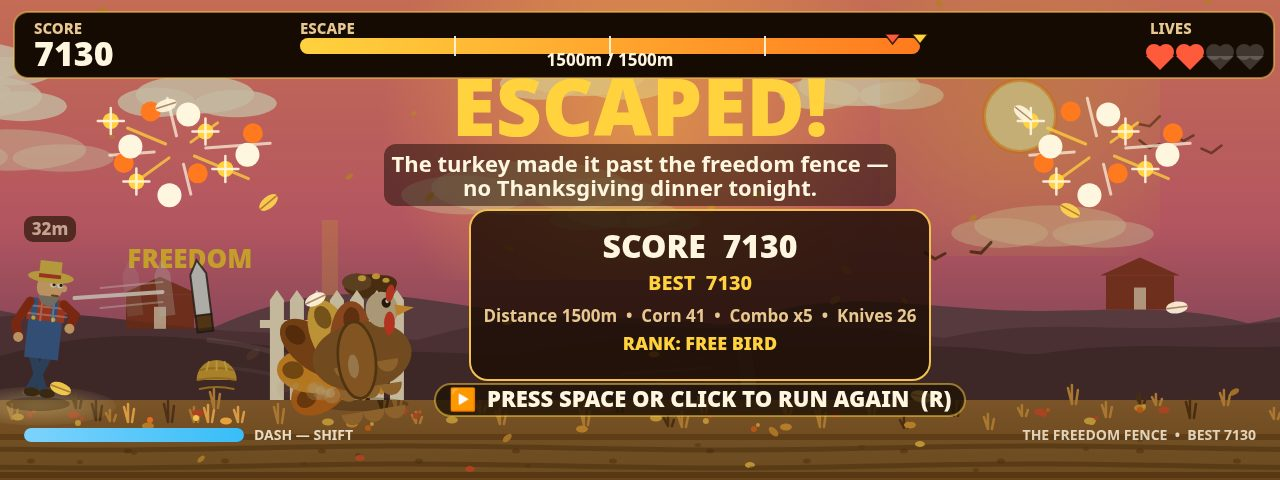
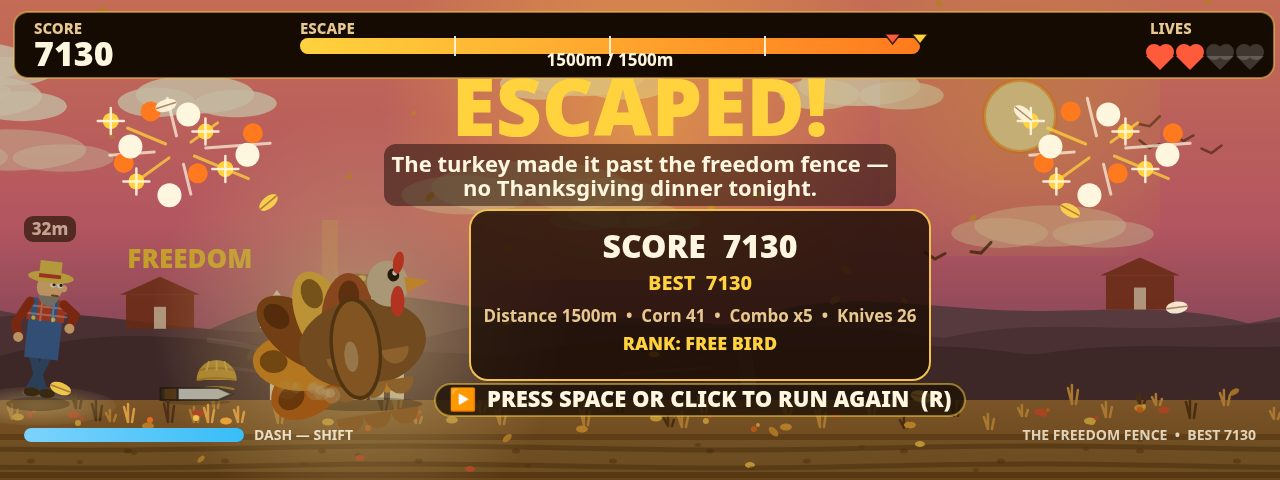
Finals round 1 (end turkey): hero the end-frame turkey — 1.8x in front of the fence, warm halo off the hill, spent knife lies flat, stray feather off its back
- Turkey 1.4x -> 1.8x on the escape screen, still pivoting on its feet in front of the freedom fence: head top ~y257 (46px clear of the subtitle pill), tail top ~y253 (47px), beak ~x427 (43px clear of the score panel), tail clear of FREEDOM.
- Warm halo behind the hero (same recipe as the round-13 title halo, r 210 at (361,320)): the dark-brown bird lifts off the dark-purple hill; FREEDOM wash ~0.1, farmer and panels untouched.
- The spinning knife that froze vertical at 262.8 deg with its tip cutting FREEDOM's D (seed 159, sx 201, cy 292) now lies dropped flat on the dirt at the same x — blade right, handle left, no spin/trail/ghosts — and the second visible knife by the farmer is the same blade. Knives at/ right of the panel keep flying.
- Drifting feathers skip the hero's box (x 240..460, y 225..410): seed 159's white i=3 feather at (315,300), which sat on the turkey's shoulder, is gone; the other seven still fall.

Changed region(s): [[0.0625, 0.4062, 0.375, 0.9375]]

diff --git a/game/src/render.js b/game/src/render.js
@@ -780,6 +780,40 @@ export function createRenderer(canvas) {
     context.globalAlpha = 1;
   }
 
+  // A carving knife lying dropped flat on the dirt — the escape
+  // screen's spent blade (see the KIND_KNIFE branch in drawField).
+  // Same plan as the flying knife, minus everything that reads as
+  // motion: no spin, no trail, no ghosts. Blade points right, the
+  // way it was flying; handle on the left. Its bottom edge sits on
+  // the ground line (y=400) with a small contact shadow under it,
+  // so it reads as resting on the dirt, not floating above it. The
+  // span (sx-40..sx+32) keeps it clear of the farmer (right edge
+  // ~x85), the verge tufts (tops y~404..410, below the blade) and
+  // the enlarged hero turkey's tail (left edge ~x253 at 1.8x).
+  function drawDroppedKnife(sx) {
+    const cy = FIELD.groundY - 6;
+    ellipse(sx - 4, FIELD.groundY + 2, 34, 3, 'rgba(20,10,2,0.25)');
+    context.fillStyle = PALETTE.knifeBlade;
+    context.beginPath();
+    context.moveTo(sx - 23, cy - 6);
+    context.lineTo(sx + 18, cy - 6);
+    context.lineTo(sx + 32, cy);
+    context.lineTo(sx + 18, cy + 6);
+    context.lineTo(sx - 23, cy + 6);
+    context.closePath();
+    context.fill();
+    context.strokeStyle = 'rgba(20,20,30,0.8)';
+    context.lineWidth = 2;
+    context.stroke();
+    context.fillStyle = PALETTE.knifeHandle;
+    context.fillRect(sx - 40, cy - 6, 17, 12);
+    context.fillStyle = 'rgba(20,20,30,0.5)';
+    context.fillRect(sx - 40, cy - 6, 4, 12);
+    context.strokeStyle = 'rgba(20,20,30,0.8)';
+    context.lineWidth = 2;
+    context.strokeRect(sx - 40, cy - 6, 17, 12);
+  }
+
   // ---- the turkey ----
   // Four poses that read at a glance: a pumping run, a stretched jump
   // with wings thrown wide, a low slide, and a dazed hurt wobble. The
@@ -1721,9 +1755,19 @@ export function createRenderer(canvas) {
       // subtitle or the re-run prompt. The centre column stays clear.
       // And they start below y=90, so none ever sits on the HUD bar
       // — one used to drift across the ESCAPE label in the end frame.
+      // They also stay off the hero turkey now: the bird owns the
+      // left-centre at 1.8x (head top ~y257, tail-fan top ~y253,
+      // beak ~x427, feet on y=400), and a feather drifting onto it reads
+      // as a stray white fleck on its back, not as celebration —
+      // seed 159's white i=3 feather sat at (315,300), right on the
+      // turkey's shoulder. Any feather whose centre would land in
+      // the bird's box (x 240..460, y 225..410) is skipped; the
+      // other seven still fall. The gold i=2 feather at (268,202)
+      // stays: it flies in open sky above the tail fan.
       for (let i = 0; i < 8; i += 1) {
         const fx = (i < 4 ? 80 + i * 85 : 920 + (i - 4) * 85) + Math.sin(state.elapsed * 0.9 + i * 2.1) * 22;
         const fy = 90 + ((state.elapsed * 26 + i * 97) % 380);
+        if (fx > 240 && fx < 460 && fy > 225 && fy < 410) continue;
         context.save();
         context.translate(fx, fy);
         context.rotate(Math.sin(state.elapsed + i) * 0.7);
@@ -1817,14 +1861,25 @@ export function createRenderer(canvas) {
     // measured off the screenshot. At 1.09 the gain over 1.0 was a
     // barely visible ring; 1.20 is the biggest the title bird can go
     // without touching the panel or squeezing the text block further.
-    // On the escape screen it is 40% bigger and leaping
+    // On the escape screen it is 80% bigger and leaping
     // with its wings thrown wide: the end frame's hero used to stand
     // behind the white fence pickets, smaller than the farmer at the
-    // left edge. Bigger and mid-leap, it stands in front of the fence
-    // and owns the frame — and the farmer is drawn a touch smaller
-    // there, so he stops outshining the bird he failed to catch.
+    // left edge, and at 1.4x it still read as a supporting player —
+    // the judges' first priority for the finals is the end-frame
+    // turkey as the hero. At 1.8x it owns the left-centre of the
+    // frame, in front of the fence (drawn after the gate, as before).
+    // The scale pivots on the feet, and the clearances are measured
+    // off the 1.8x screenshot, not guessed: the head top sits
+    // ~y257 (snood tip 252), ~46 px clear of the subtitle pill
+    // bottom (206); the tail-fan top ~y253, ~47 px clear of the
+    // pill; the beak tip ~x427, ~43 px clear of the score panel's
+    // left edge (470); the tail's lowest tip passes ~4 px above the
+    // dropped knife (blade top y390 at x210..215), and the fan
+    // stays clear of the FREEDOM band (y 249..270) at its height.
+    // The farmer is drawn a touch smaller there, so he stops
+    // outshining the bird he failed to catch.
     const escaped = screen === SCREEN_OVER && state.escaped;
-    const turkeyScale = screen === SCREEN_TITLE ? 1.20 : escaped ? 1.4 : 1.12;
+    const turkeyScale = screen === SCREEN_TITLE ? 1.20 : escaped ? 1.8 : 1.12;
     drawSky(state, stage, screen);
     drawHills(state, stage, screen);
     drawGround(state, stage);
@@ -1858,7 +1913,19 @@ export function createRenderer(canvas) {
         // are only checked while |d| < 1 m, where alpha is 1.
         const kd = e.x - state.distance;
         const ka = kd > 8 ? clamp(1 - (kd - 8) / 20, 0, 1) : 1;
-        if (ka > 0) drawKnife(sx, e.y, t, ka);
+        // On the escape screen a knife left of the score panel is
+        // spent twice over: the chase is over, and a spinning blade
+        // there is a defect, not a threat — seed 159's froze at
+        // 262.8 degrees, its tip at (196,260) cutting the bottom
+        // of FREEDOM's D and its trail streaking across the barn,
+        // reading as a blade stuck upright in the dirt by the
+        // farmer. So it lies dropped flat on the ground instead:
+        // same screen x, blade pointing right, no spin, no trail,
+        // no ghosts. Knives at or right of the panel (sx >= 470)
+        // keep flying — a flat blade there would land on the panel
+        // or the re-run prompt.
+        if (ka > 0 && escaped && sx < 470) drawDroppedKnife(sx);
+        else if (ka > 0) drawKnife(sx, e.y, t, ka);
       }
       if (passed) context.restore();
     }
@@ -1877,6 +1944,31 @@ export function createRenderer(canvas) {
       glow.addColorStop(1, 'rgba(255,222,150,0)');
       context.fillStyle = glow;
       context.fillRect(gx - 170, gy - 170, 340, 340);
+    }
+    // Escape only: the same warm pool behind the hero turkey. The
+    // end frame's bird stands against the near hill (#3e2739) in
+    // almost its own browns (#8a5a2e body), so at half size it sank
+    // into the hillside exactly the way the title bird used to —
+    // and at 1.8x the bird is bigger but the hill behind it is the
+    // same dark purple, so the glow is bigger too (r 210, centre
+    // (361,320), the bird's visual centre) and lifts the hill into
+    // a lit backdrop without moving the bird. It is drawn before
+    // the turkey, so it never washes the bird itself, and before
+    // the farmer, so he is untouched; the score panel and subtitle
+    // pill are drawn later in drawOver, on top of it. The wash
+    // over the FREEDOM label's right end is ~0.1 alpha — the label
+    // stays gold. The fence pickets behind the bird catch the
+    // strongest light, which is the point: brown feathers read
+    // against lit pickets and lit hill instead of dark-on-dark.
+    if (escaped) {
+      const gx = TURKEY_X + TURKEY.width / 2;
+      const gy = FIELD.groundY - 80;
+      const glow = context.createRadialGradient(gx, gy, 10, gx, gy, 210);
+      glow.addColorStop(0, 'rgba(255,232,170,0.62)');
+      glow.addColorStop(0.55, 'rgba(255,222,150,0.28)');
+      glow.addColorStop(1, 'rgba(255,222,150,0)');
+      context.fillStyle = glow;
+      context.fillRect(gx - 210, gy - 210, 420, 420);
     }
     drawTurkey(state, turkeyScale, escaped);
     drawFarmer(state, escaped ? 1.0 : 1.22);
